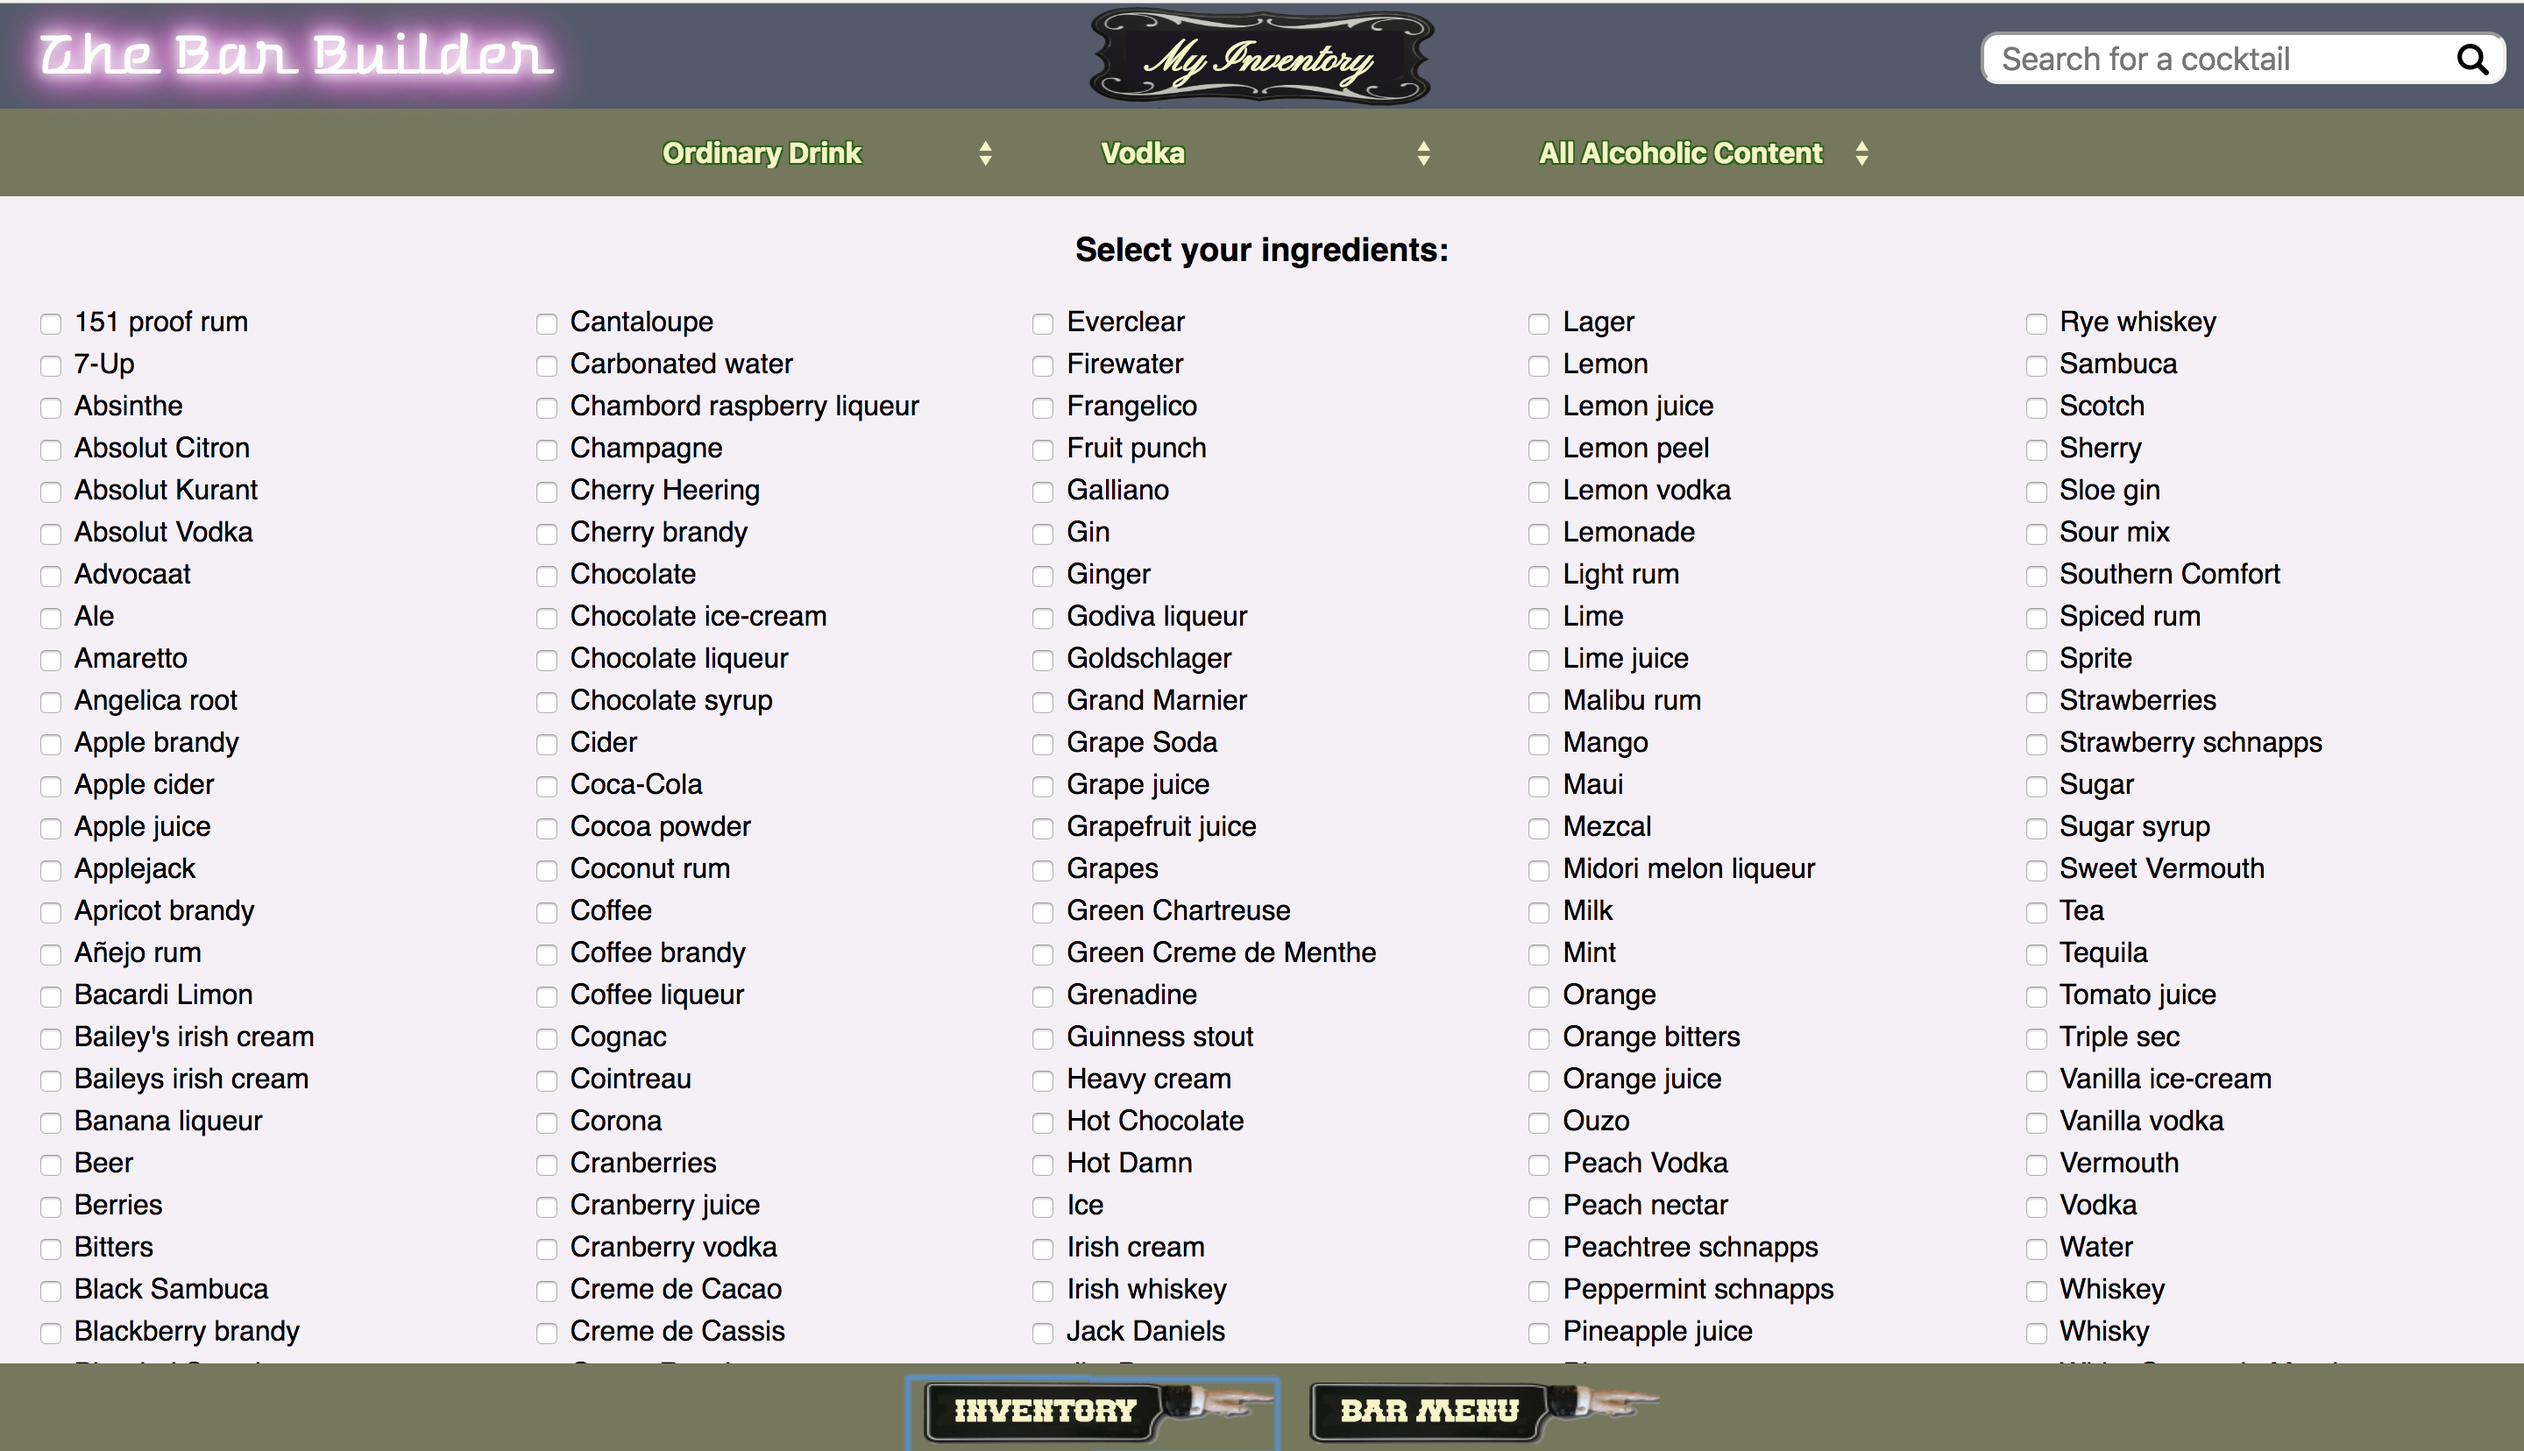
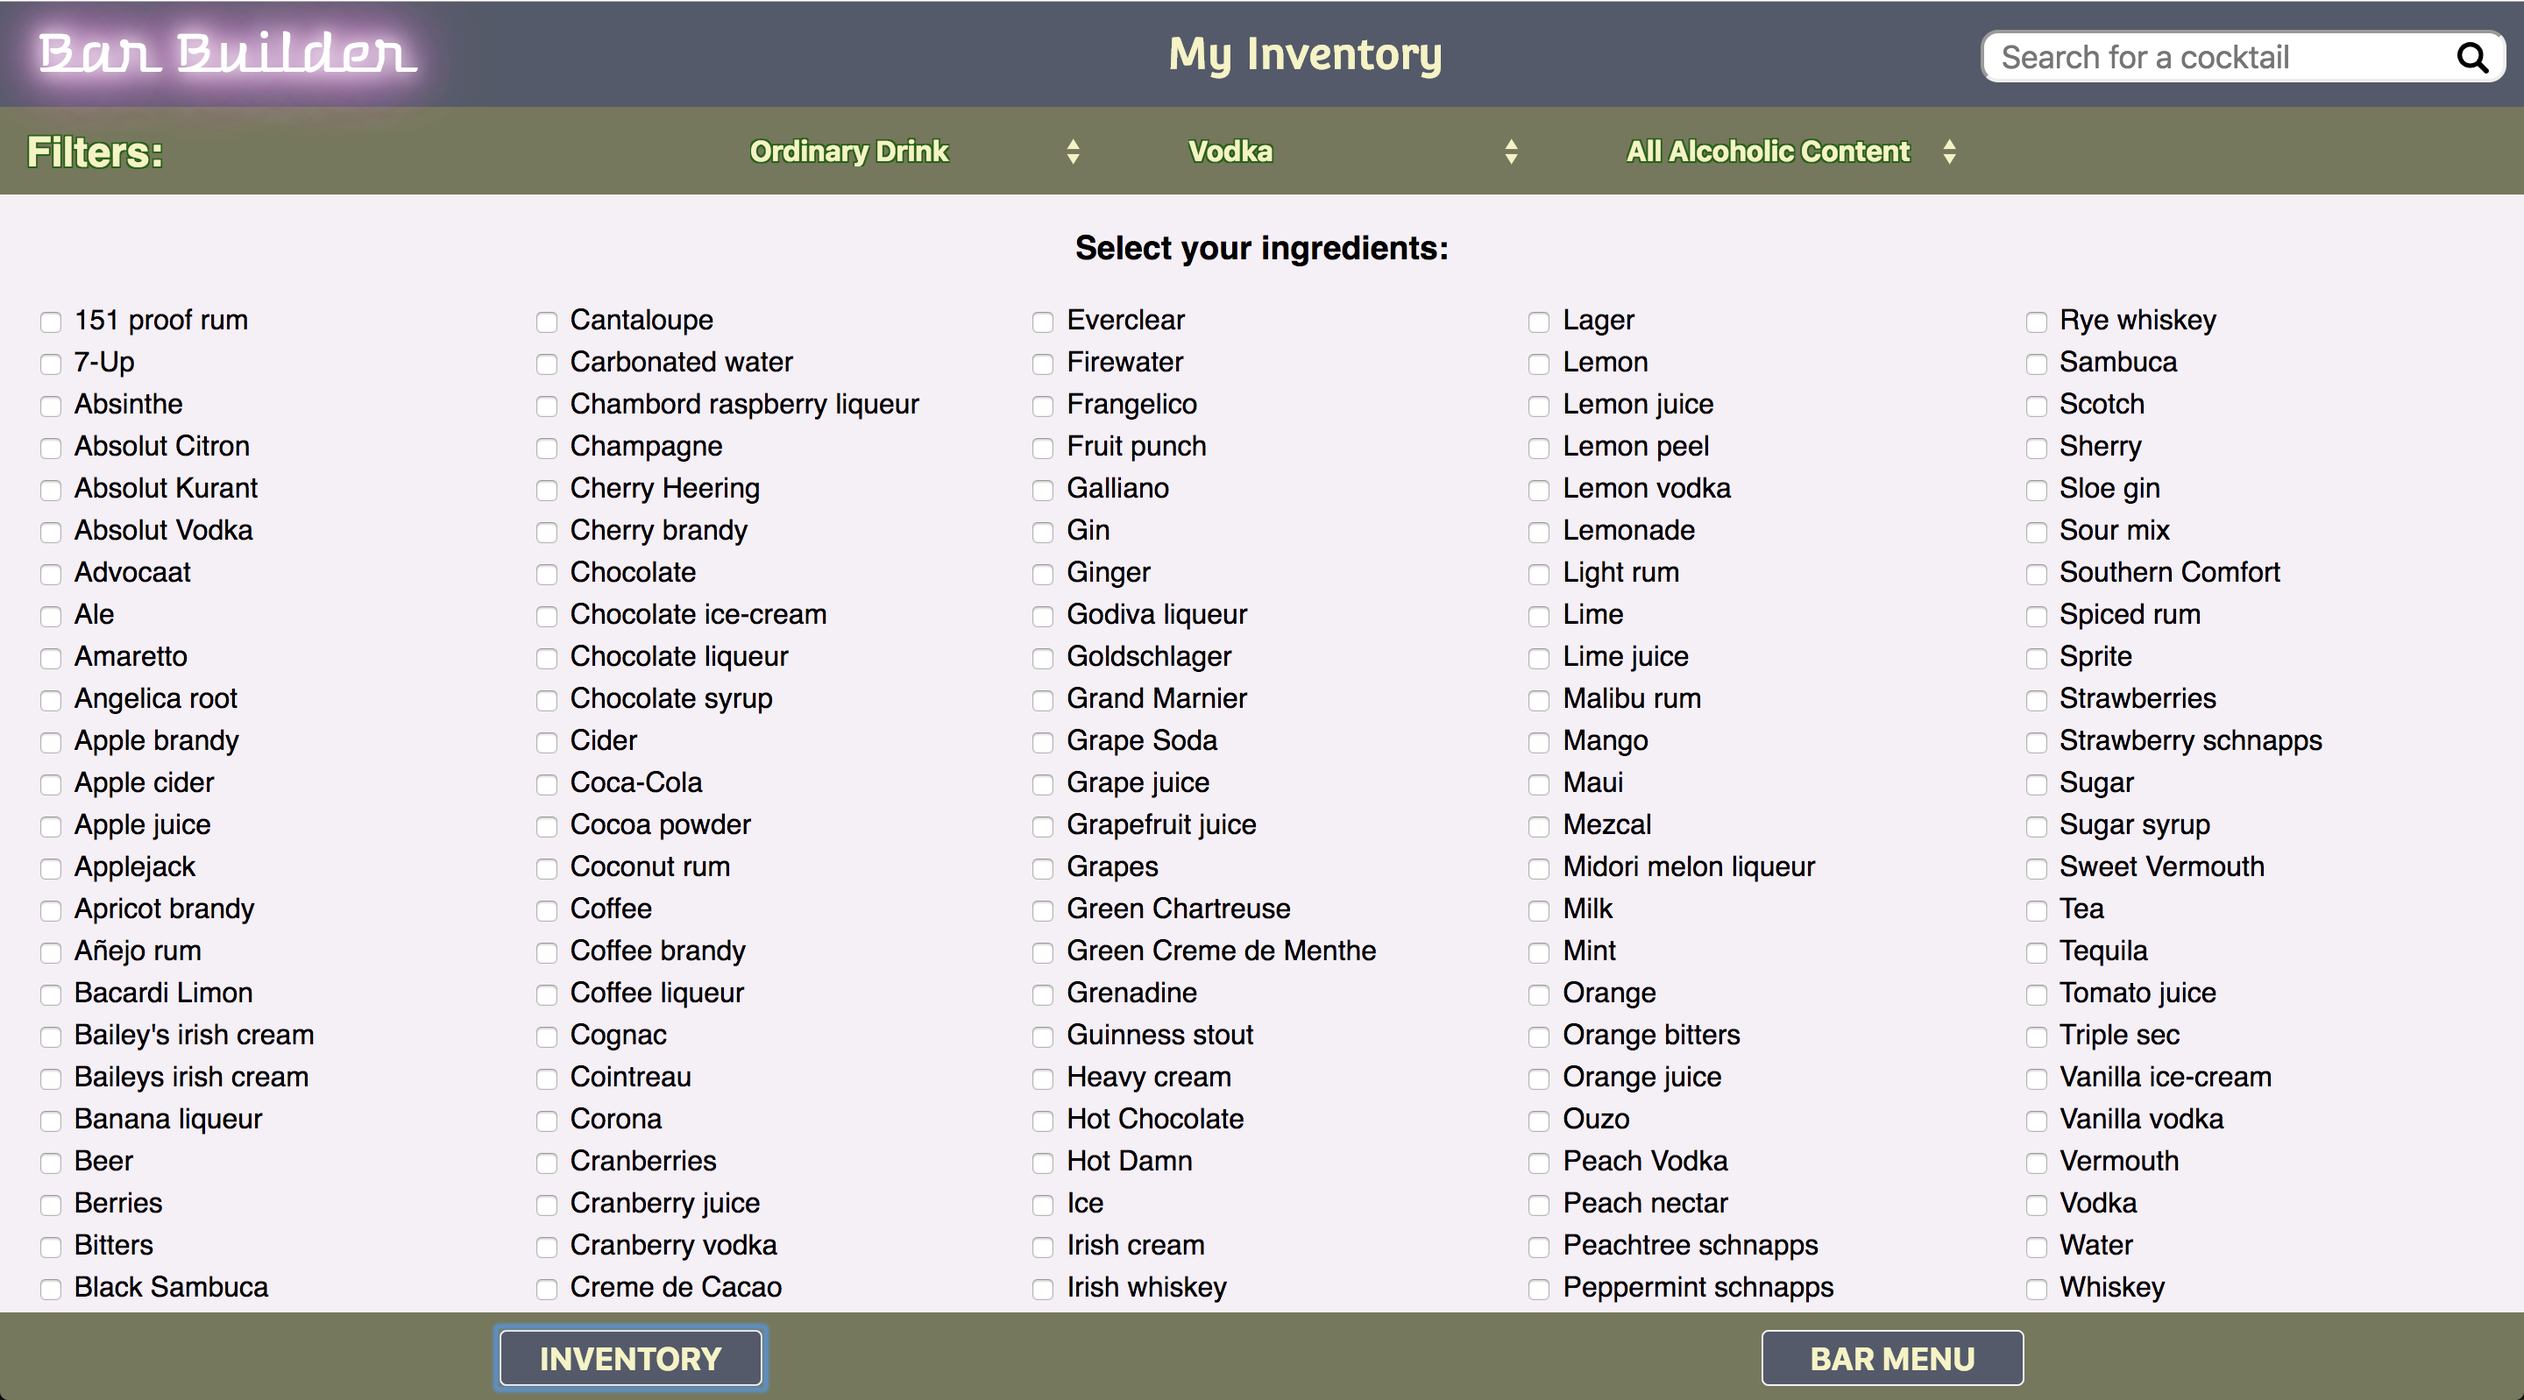
* remove unused assets * update screenshots

diff --git a/src/components/Dashboard/Dashboard.js b/src/components/Dashboard/Dashboard.js
@@ -5,8 +5,6 @@ import { connect } from 'react-redux';
 import { addMenuRecipes, clearMenuRecipes } from '../../actions';
 import PropTypes from 'prop-types';
 import './Dashboard.css';
-import buttonRight from '../../assets/bar-button-right.png';
-import buttonLeft from '../../assets/bar-button-left.png';
 
 export class Dashboard extends Component {
 
